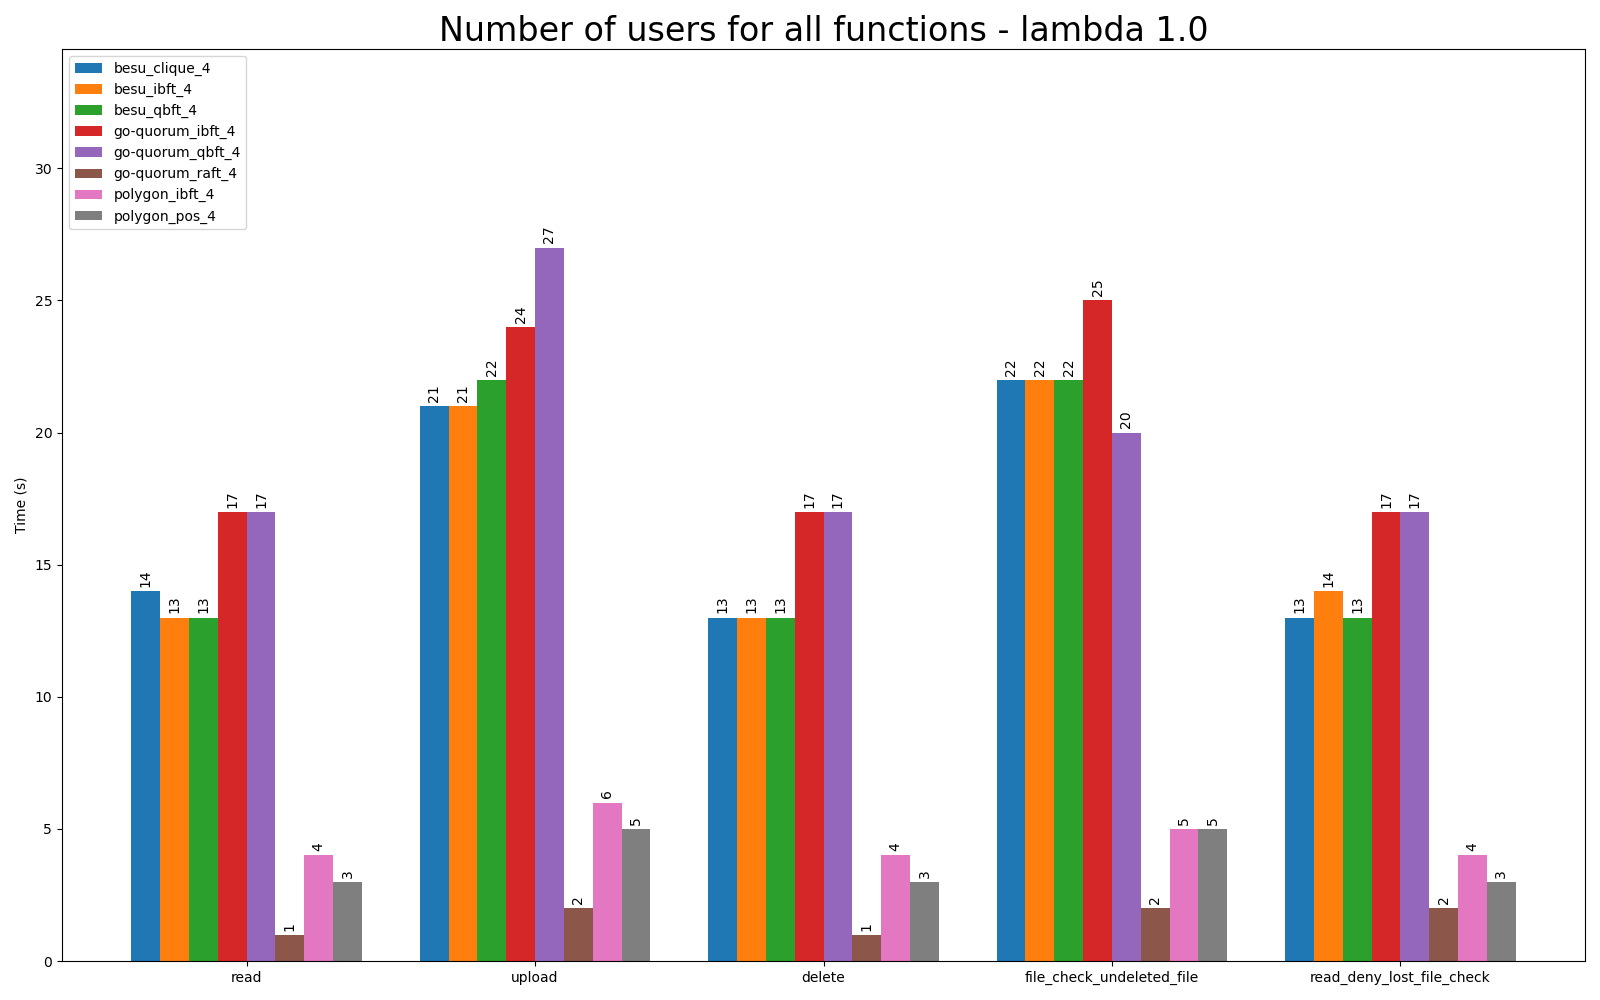
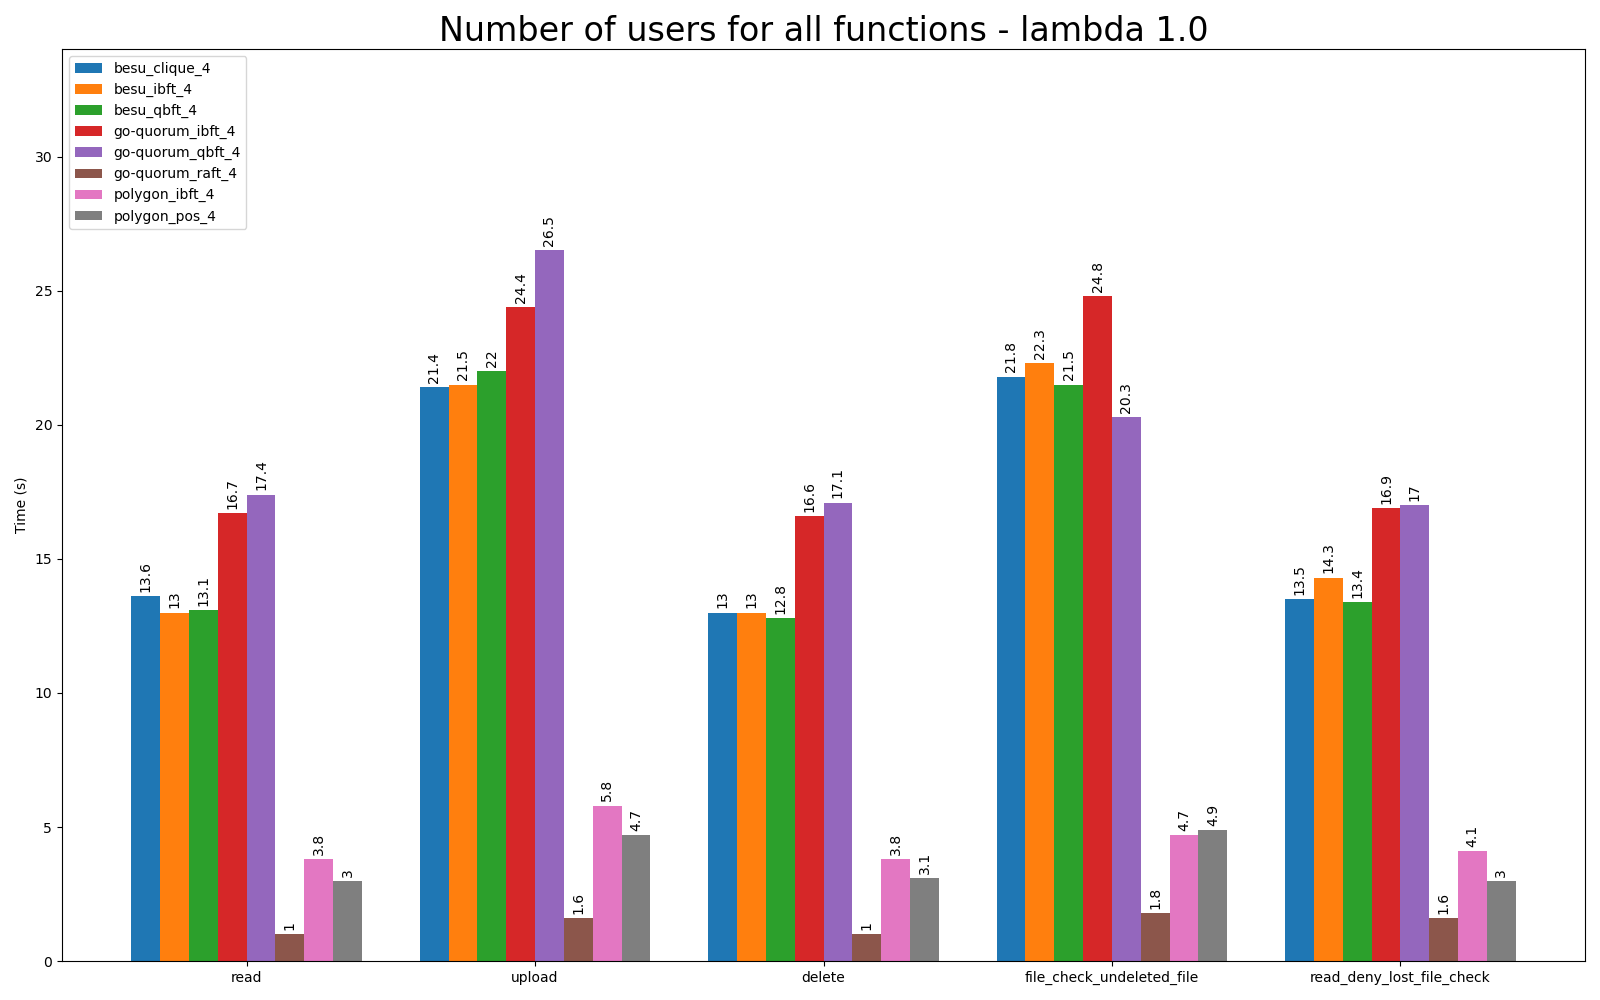
Update round function with zero to one digit, upload plots

diff --git a/statistics-web3py/main.py b/statistics-web3py/main.py
@@ -96,7 +96,7 @@ def main():
         if args.experiment == 'none':
             for lambda_p in lambdas:
                 df_filter_lambda = df_metrics[df_metrics['lambda'] == lambda_p]
-                df_rounded_lambda = df_filter_lambda.round(0)
+                df_rounded_lambda = df_filter_lambda.round(1)
                 title = f'Percentage error all functions - lambda {lambda_p}'
                 bar_plot_one_metric(df_rounded_lambda, functions, 'mean_error', title, args.save)
                 title = f'Number of users for all functions - lambda {lambda_p}'
